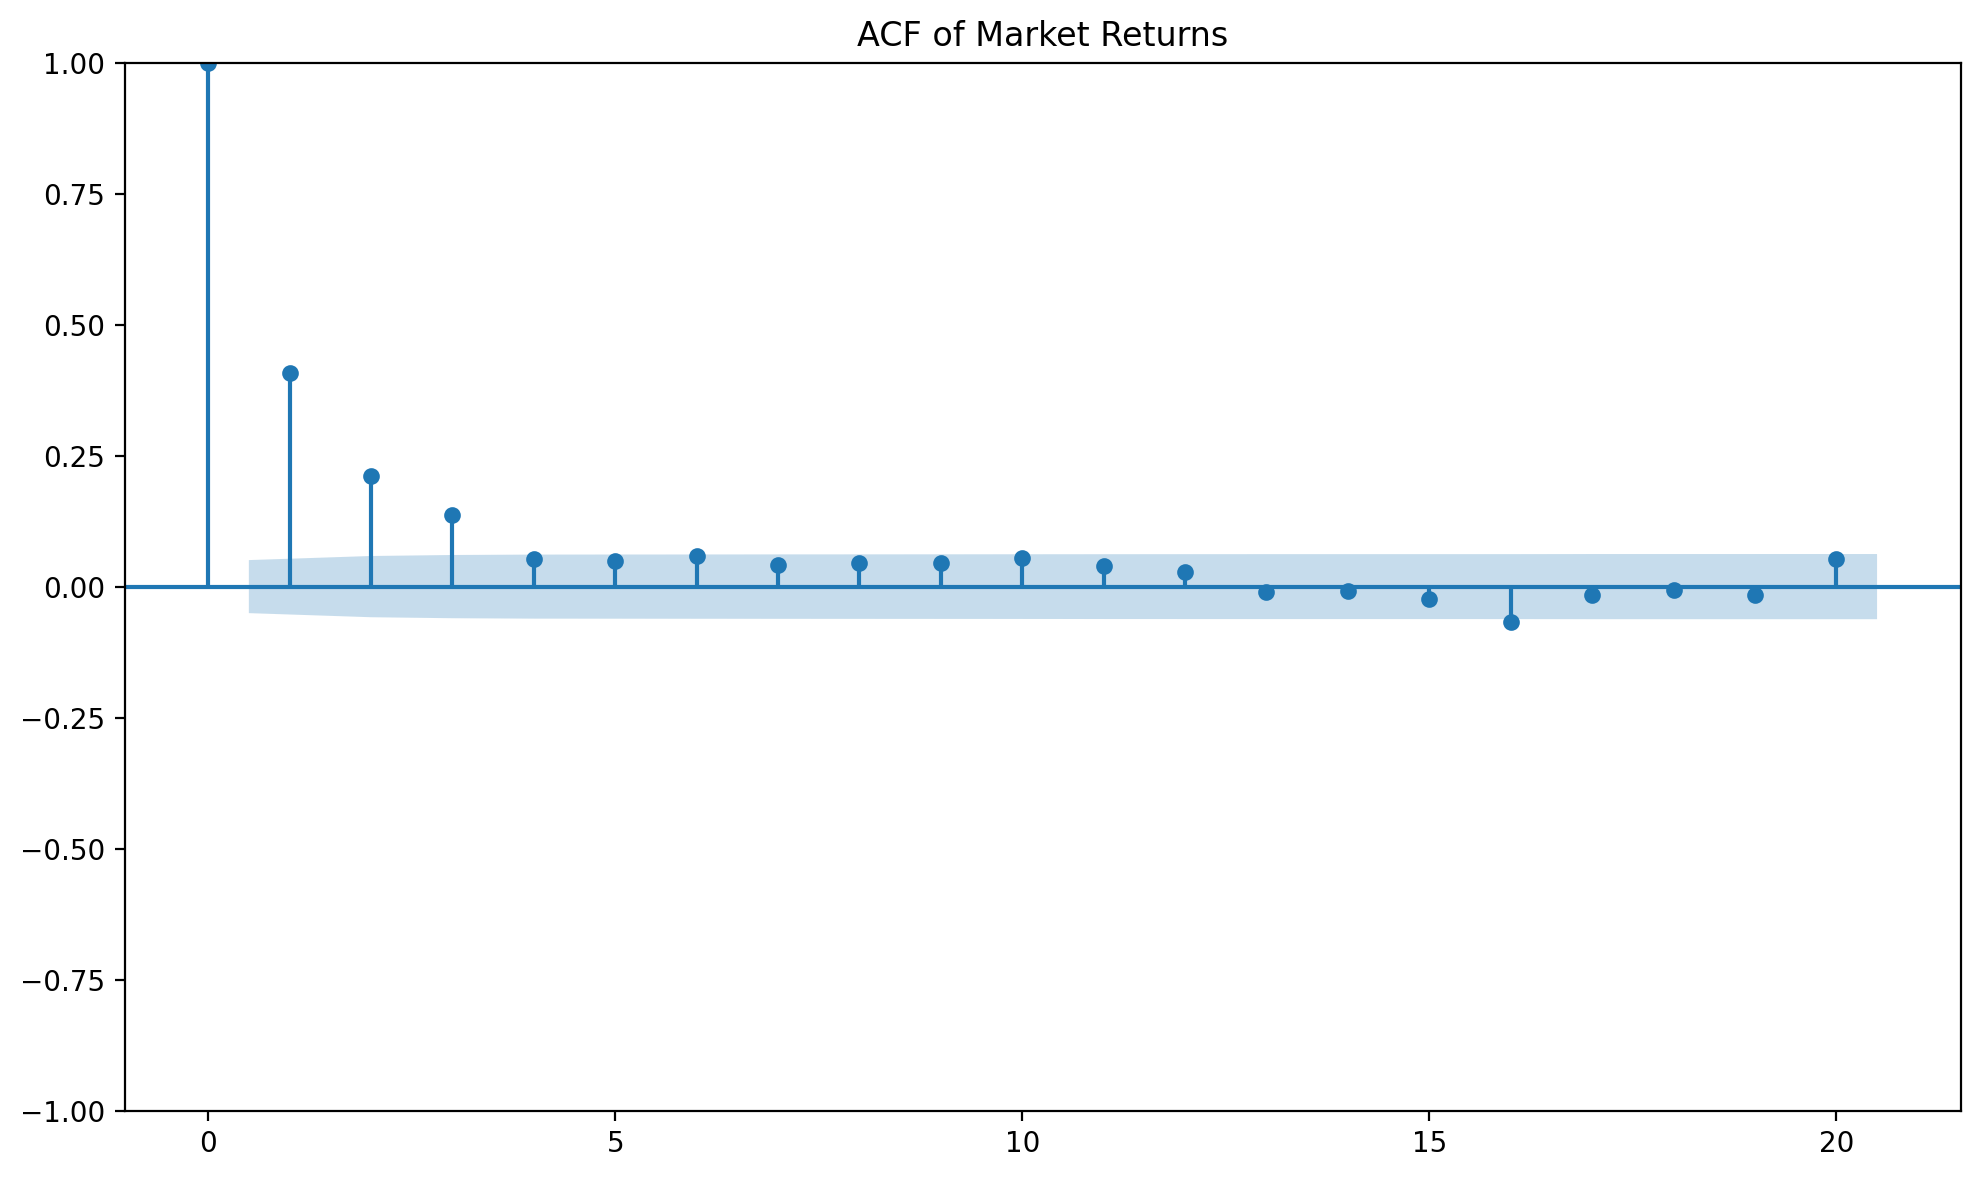
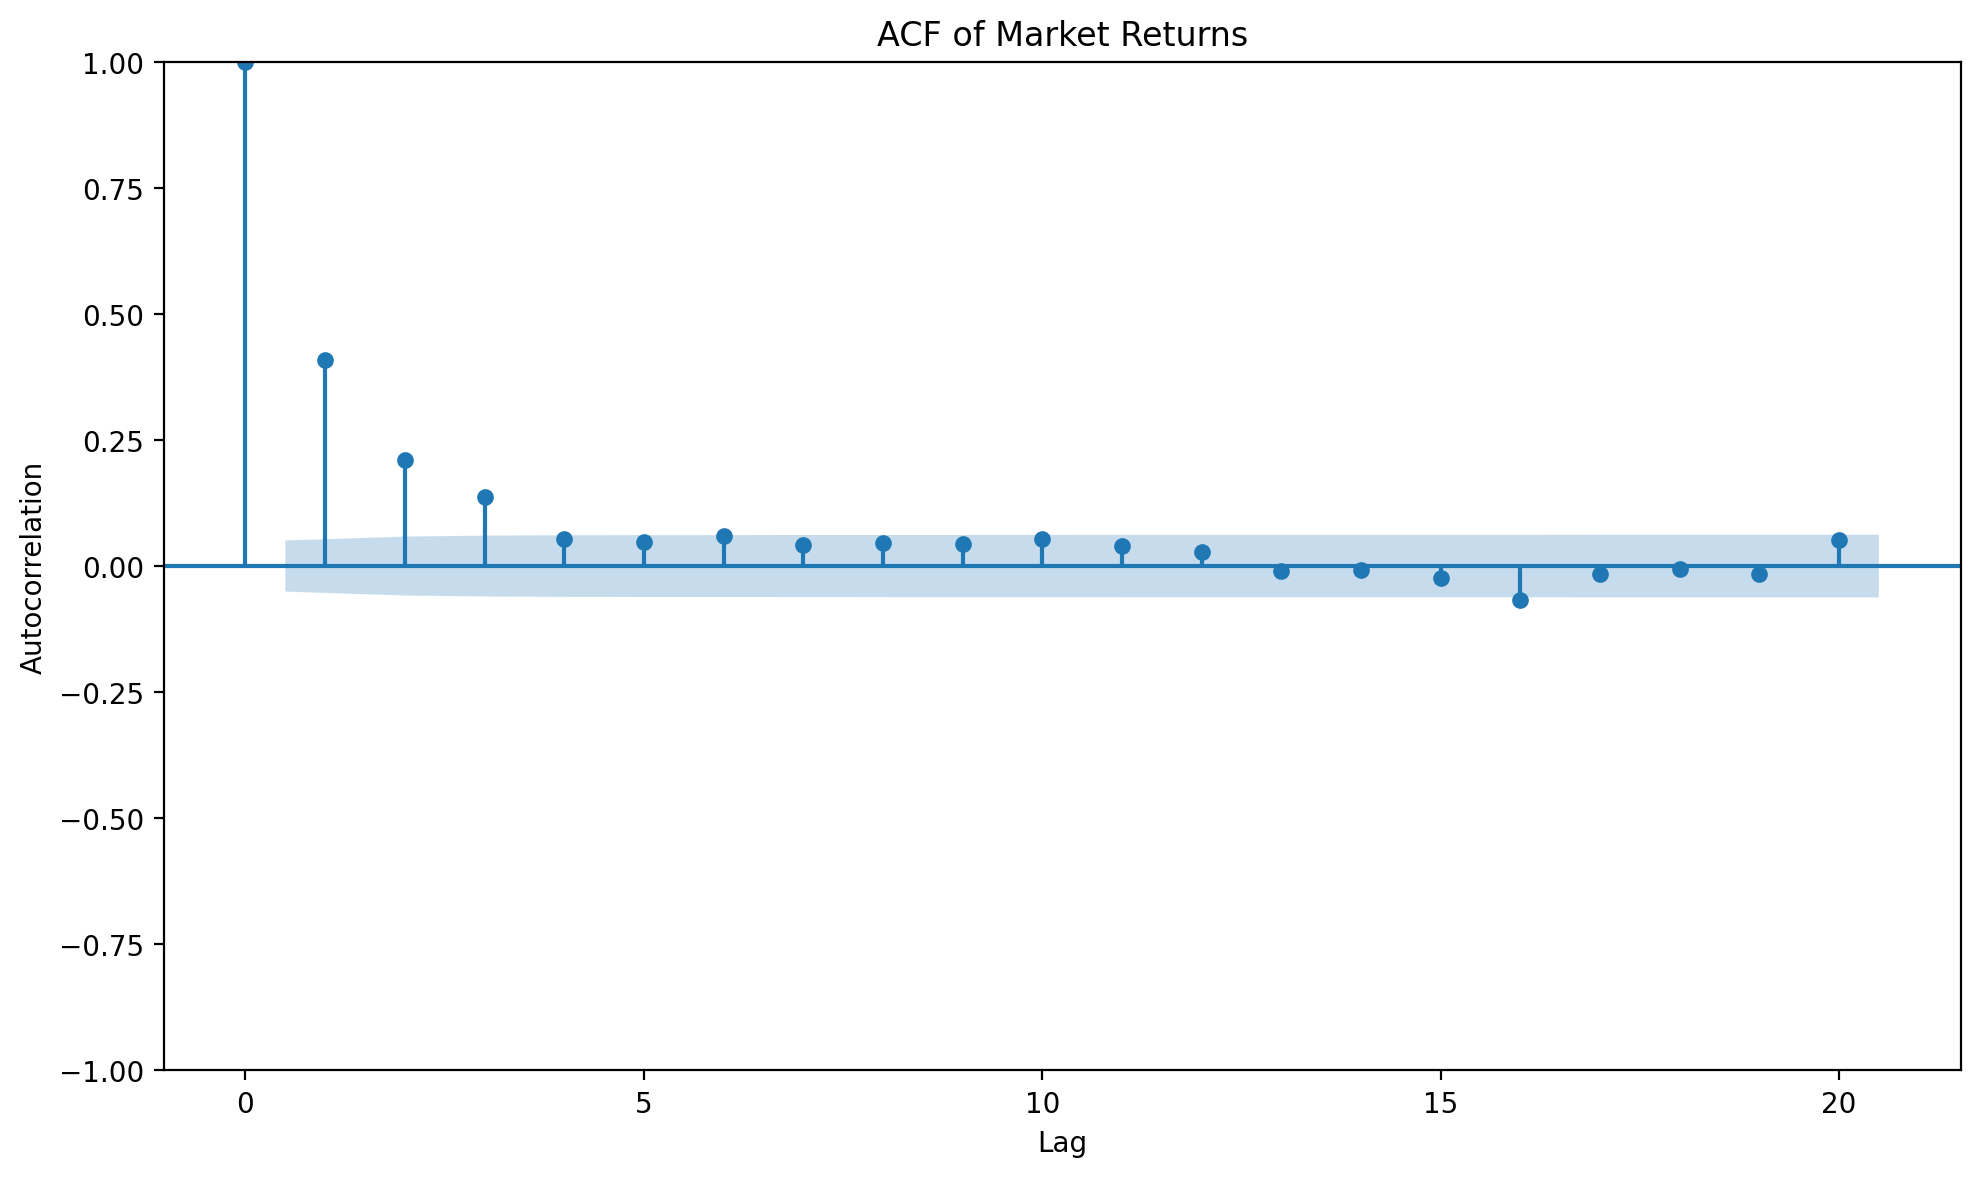
Added regime and volatility analysis plots

Changed region(s): [[0.0, 0.0, 1.0, 0.9788]]

diff --git a/market_analyser.py b/market_analyser.py
@@ -22,16 +22,23 @@ log_returns = np.log(df / df.shift(1))
 if log_returns.dropna(how="all").empty:
     raise ValueError("Log returns are empty. Check your input file format or separators.")
 
-rolling_vol = log_returns.rolling(window=30).std() * np.sqrt(252)
+# Per-stock rolling vol (for cross-sectional views) – now 100-day
+ROLL_WINDOW = 100
+rolling_vol = log_returns.rolling(window=ROLL_WINDOW).std() * np.sqrt(252)
 
+# Market proxy: equal-weight index
 market_returns = log_returns.mean(axis=1).dropna()
 market_price = df.mean(axis=1)
 market_rebased = market_price / market_price.iloc[0] * 100
+
+# Market rolling volatility (time-series regime measure) – now 100-day
+market_rolling_vol = market_returns.rolling(ROLL_WINDOW).std() * np.sqrt(252)
 
 # ───────────────────────────────────────────────────────────────────────
 # Helpers
 # ───────────────────────────────────────────────────────────────────────
 def mean_rolling_autocorr(series: pd.Series, max_window: int = 100, lag: int = 1) -> pd.Series:
+    """For a range of window sizes, compute the mean lag-1 autocorr over the series."""
     s = series.dropna().astype(float)
     x = s
     y = s.shift(lag)
@@ -46,11 +53,19 @@ def mean_rolling_autocorr(series: pd.Series, max_window: int = 100, lag: int = 1
 
     return pd.Series(out)
 
+def rolling_autocorr_ts(series: pd.Series, window: int, lag: int = 1) -> pd.Series:
+    """Time-series of rolling lag-k autocorrelation (used for regime detection)."""
+    s = series.dropna().astype(float)
+    x = s
+    y = s.shift(lag)
+    return x.rolling(window).corr(y)
+
 def finite_vals(arr: np.ndarray) -> np.ndarray:
     vals = np.asarray(arr).ravel()
     return vals[np.isfinite(vals)]
 
 def fwd_cum_return(r: pd.Series, k: int) -> pd.Series:
+    """k-day forward cumulative return of a daily return series."""
     rr = (1.0 + r).astype(float)
     return rr.shift(-1).rolling(k).apply(np.prod, raw=True) - 1.0
 
@@ -79,6 +94,8 @@ corr_matrix = log_returns.corr()
 im = ax.imshow(corr_matrix, cmap="coolwarm", interpolation="none", aspect="auto")
 fig.colorbar(im, ax=ax, label="Correlation")
 ax.set_title(f"Correlation Matrix ({df.shape[1]} Stocks)")
+ax.set_xlabel("Stock index")
+ax.set_ylabel("Stock index")
 plt.tight_layout()
 figures["01_correlation_matrix"] = fig
 
@@ -86,13 +103,17 @@ figures["01_correlation_matrix"] = fig
 fig, ax = plt.subplots(figsize=(10, 6))
 ax.hist(finite_vals(log_returns.to_numpy()), bins=100, edgecolor="black", alpha=0.7)
 ax.set_title("Distribution of Log Returns")
+ax.set_xlabel("Log return")
+ax.set_ylabel("Frequency")
 plt.tight_layout()
 figures["02_log_return_hist"] = fig
 
-# 3) Histogram of Rolling Volatility
+# 3) Histogram of Rolling Volatility (per-stock) – 100D
 fig, ax = plt.subplots(figsize=(10, 6))
 ax.hist(finite_vals(rolling_vol.to_numpy()), bins=100, edgecolor="black", alpha=0.7)
-ax.set_title("Distribution of Rolling Volatility (30-Day)")
+ax.set_title("Distribution of Rolling Volatility (100-Day)")
+ax.set_xlabel("100D annualised volatility")
+ax.set_ylabel("Frequency")
 plt.tight_layout()
 figures["03_rolling_vol_hist"] = fig
 
@@ -104,6 +125,8 @@ ax.plot(x_days, rebased_df.values, alpha=0.1)
 ax.plot(x_days, rebased_df.mean(axis=1).values, linewidth=2, label="Index")
 ax.legend()
 ax.set_title("Cumulative Returns (Rebased)")
+ax.set_xlabel("Day")
+ax.set_ylabel("Rebased price (index = 100)")
 plt.tight_layout()
 figures["04_cumulative_returns"] = fig
 
@@ -112,70 +135,127 @@ fig, ax = plt.subplots(figsize=(10, 6))
 if not market_returns.empty:
     sm.graphics.tsa.plot_acf(market_returns, lags=20, ax=ax)
 ax.set_title("ACF of Market Returns")
+ax.set_xlabel("Lag")
+ax.set_ylabel("Autocorrelation")
 plt.tight_layout()
 figures["05_market_acf"] = fig
 
-# 6) Trend Strength
+# 6) Trend Strength (Market vs MA)
 fig, ax = plt.subplots(figsize=(12, 6))
 ma_window = 100
 market_ma = market_rebased.rolling(ma_window).mean()
 x_days = np.arange(len(market_rebased))
-ax.plot(x_days, market_rebased.values)
-ax.plot(x_days, market_ma.values)
+ax.plot(x_days, market_rebased.values, label="Market (rebased)")
+ax.plot(x_days, market_ma.values, label=f"MA-{ma_window}")
+ax.legend()
 ax.set_title("Trend Strength (Market vs MA)")
+ax.set_xlabel("Day")
+ax.set_ylabel("Rebased price (index = 100)")
 plt.tight_layout()
 figures["06_trend_strength_ma"] = fig
 
-# 7) Z-score
+# 7) Z-score of Market Returns
 fig, ax = plt.subplots(figsize=(12, 6))
 z_window = 60
 mr = log_returns.mean(axis=1)
 z = (mr - mr.rolling(z_window).mean()) / mr.rolling(z_window).std()
 x_days = np.arange(len(z))
 ax.plot(x_days, z.values)
-ax.axhline(0)
-ax.axhline(2, linestyle="--")
-ax.axhline(-2, linestyle="--")
+ax.axhline(0, color="black", linewidth=1)
+ax.axhline(2, linestyle="--", color="grey")
+ax.axhline(-2, linestyle="--", color="grey")
 ax.set_title("Z-score of Market Returns")
+ax.set_xlabel("Day")
+ax.set_ylabel("Z-score")
 plt.tight_layout()
 figures["07_market_zscore"] = fig
 
-# 8) Rolling Autocorr vs Window
-fig, ax = plt.subplots(figsize=(14, 5))
-target = market_returns
-target_line = mean_rolling_autocorr(target)
-ax.plot(target_line.index, target_line.values)
-ax.axhline(0)
-ax.set_title("Rolling Autocorrelation vs Window")
-plt.tight_layout()
-figures["08_autocorr_vs_window"] = fig
-
-# 9) Cross-sectional Avg Vol by Day
-fig, ax = plt.subplots(figsize=(10,6))
+# 8) Cross-sectional Avg Vol by Day – from 100D vol
+fig, ax = plt.subplots(figsize=(10, 6))
 vol_by_day = rolling_vol.mean(axis=1)
 ax.hist(vol_by_day.dropna(), bins=60, edgecolor="black", alpha=0.7)
 ax.set_title("Cross-Sectional Avg Rolling Vol (by day)")
+ax.set_xlabel("100D annualised volatility (cross-sectional mean)")
+ax.set_ylabel("Frequency")
 plt.tight_layout()
 figures["09_cross_sectional_vol_distribution"] = fig
 
-# 10) Avg Vol by Stock
-fig, ax = plt.subplots(figsize=(10,6))
+# 9) Avg Vol by Stock – from 100D vol
+fig, ax = plt.subplots(figsize=(10, 6))
 vol_by_stock = rolling_vol.mean(axis=0)
 ax.hist(vol_by_stock.dropna(), bins=30, edgecolor="black", alpha=0.7)
 ax.set_title("Avg Rolling Vol (by stock)")
+ax.set_xlabel("Average 100D annualised volatility")
+ax.set_ylabel("Frequency")
 plt.tight_layout()
 figures["10_avg_vol_distribution"] = fig
 
-# 11A) AR(1) Scatter
+# 10) AR(1) Scatter (market continuation vs reversal)
 fig, ax = plt.subplots(figsize=(7, 6))
 x = market_returns.iloc[:-1].values
 y = market_returns.iloc[1:].values
 ax.scatter(x, y, alpha=0.3)
-ax.set_title("Next-day vs Same-day Returns")
+ax.set_xlabel("Return_t")
+ax.set_ylabel("Return_{t+1}")
+ax.set_title("Next-day vs Same-day Returns (Market)")
 plt.tight_layout()
 figures["11_market_nextday_scatter"] = fig
 
-# 11C) AR(1) phi Distribution
+# ───────────────────────────────────────────────────────────────────────
+# Volatility & Regime Plots
+# ───────────────────────────────────────────────────────────────────────
+
+# Regime thresholds for volatility – based on 100D market_rolling_vol
+vol_low, vol_high = np.nanpercentile(market_rolling_vol.dropna(), [20, 80])
+
+# 11) Market Rolling Volatility with Regime Bands – 100D
+fig, ax = plt.subplots(figsize=(12, 6))
+t_idx = np.arange(len(market_rolling_vol))
+ax.plot(t_idx, market_rolling_vol.values, label="100D rolling vol")
+ax.axhline(vol_low, linestyle="--", color="green", label="Low-vol threshold (20th pct)")
+ax.axhline(vol_high, linestyle="--", color="red", label="High-vol threshold (80th pct)")
+ax.set_title("Market Rolling Volatility (100D) & Regime Thresholds")
+ax.set_xlabel("Day")
+ax.set_ylabel("Annualised volatility")
+ax.legend()
+plt.tight_layout()
+figures["15_market_rolling_vol_regimes"] = fig
+
+# 12) Rolling Autocorrelation for separate lags (1, 2, 5, 10)
+acf_window = 100
+lags = [1, 2, 5, 10]
+acf_sig = 2.0 / np.sqrt(acf_window)  # rough significance band
+
+for lag in lags:
+    roll_acf_k = rolling_autocorr_ts(market_returns, window=acf_window, lag=lag)
+
+    fig, ax = plt.subplots(figsize=(12, 6))
+    x_days = np.arange(len(roll_acf_k))
+    ax.plot(x_days, roll_acf_k.values, label=f"Lag {lag}")
+    ax.axhline(0.0, color="black", linewidth=1)
+
+    # Red = momentum threshold (positive), Green = mean-reversion threshold (negative)
+    ax.axhline(
+        acf_sig,
+        linestyle="--",
+        color="red",
+        label="Momentum threshold"
+    )
+    ax.axhline(
+        -acf_sig,
+        linestyle="--",
+        color="green",
+        label="Mean-reversion threshold"
+    )
+
+    ax.set_title(f"Rolling Autocorrelation of Market Returns (lag={lag}, window={acf_window})")
+    ax.set_xlabel("Day")
+    ax.set_ylabel("Autocorrelation")
+    ax.legend()
+    plt.tight_layout()
+    figures[f"16_market_rolling_acf_lag{lag}"] = fig
+
+# 13) Distribution of AR(1) phi (single-name behaviour)
 phis = []
 for col in log_returns.columns:
     phi, _ = fit_ar1(log_returns[col])
@@ -184,6 +264,8 @@ for col in log_returns.columns:
 fig, ax = plt.subplots(figsize=(9, 5))
 ax.hist([p for p in phis if np.isfinite(p)], bins=25, edgecolor="black")
 ax.set_title("Distribution of AR(1) phi")
+ax.set_xlabel("AR(1) phi")
+ax.set_ylabel("Frequency")
 plt.tight_layout()
 figures["13_ar1_phi_distribution"] = fig
 
@@ -196,4 +278,4 @@ os.makedirs(OUTPUT_DIR, exist_ok=True)
 for name, fig in figures.items():
     fig.savefig(os.path.join(OUTPUT_DIR, f"{name}.png"), dpi=200, bbox_inches="tight")
 
-plt.show()
+# plt.show()
